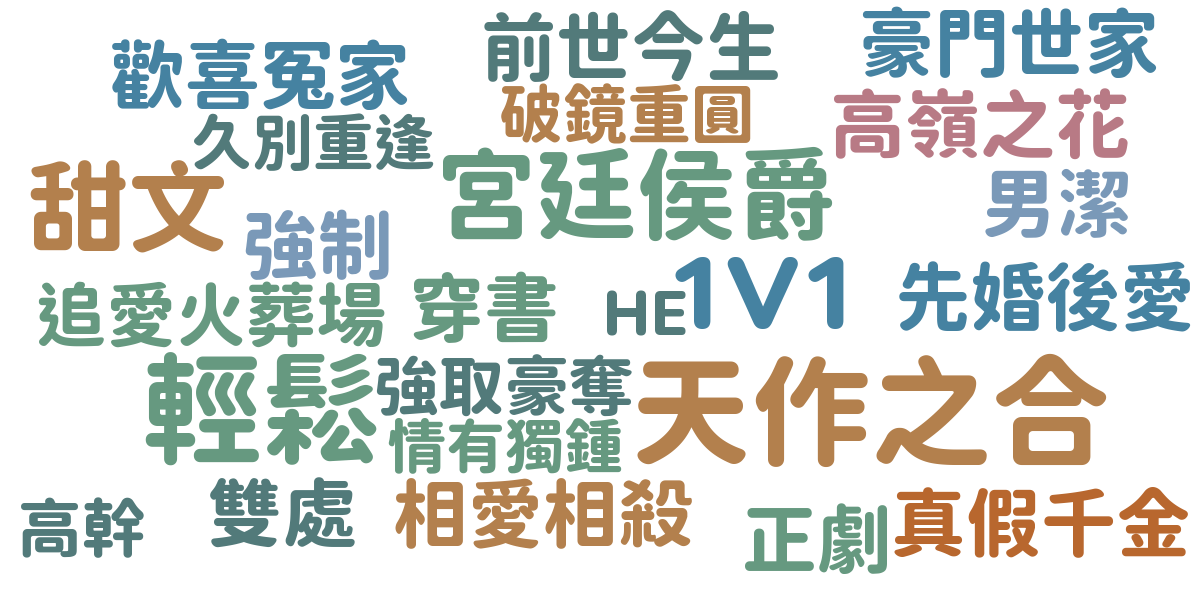
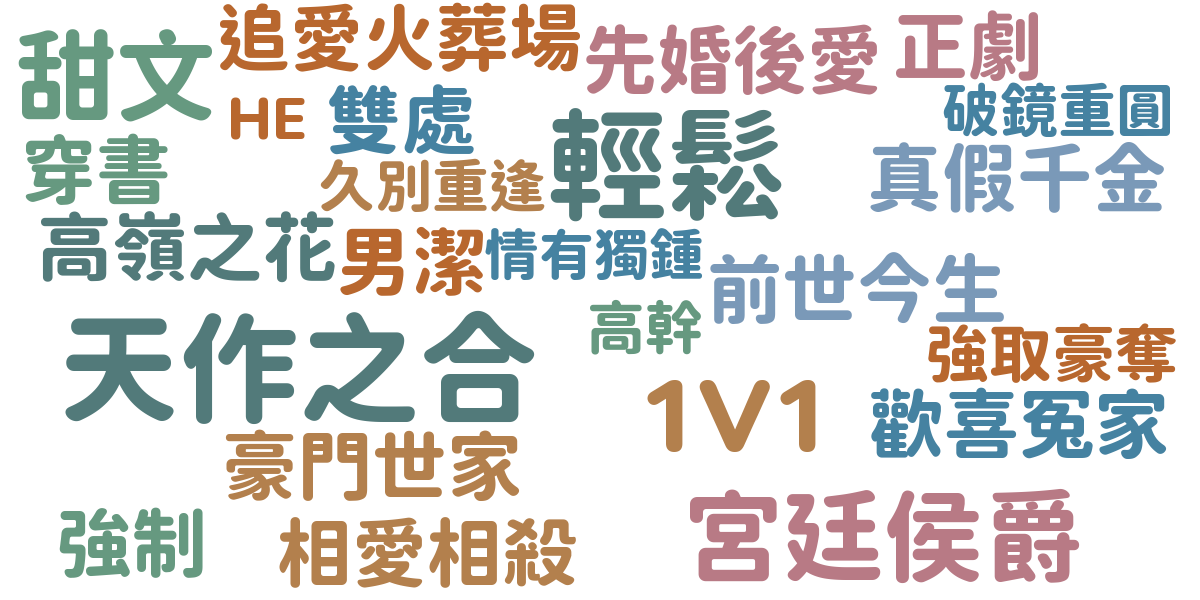
☁ Update reading word cloud via GitHub Actions

diff --git a/public/word_cloud.html b/public/word_cloud.html
@@ -23,6 +23,6 @@
     </style>
 </head>
 <body>
-    <img src="word_cloud.png?t=1768177752" alt="Word Cloud">
+    <img src="word_cloud.png?t=1768263836" alt="Word Cloud">
 </body>
 </html>
